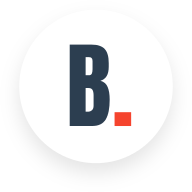
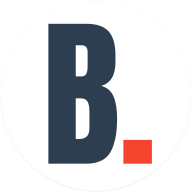
Major Overall from Meeting
- Replace favicons with bigger version
- Replace speaker images with standard sizes
- Create new sections for home page

Changed region(s): [[0.25, 0.0938, 0.8125, 0.875]]

diff --git a/src/js/context/context.js b/src/js/context/context.js
@@ -2,6 +2,40 @@ window.context = {
     ctaText: 'Register',
     orgName: 'BizDay',
     url_cta: 'https://www.eventbrite.com/e/bizdayla-tickets-85448796651',
+    description: {
+        header: 'An exciting event for current and aspiring business owners.',
+        sub_header: 'Join your business peers for a full-day of presentations and discussions focused on the growing your business. Topics such as...',
+        paragraphs: [
+            {
+                label: 'Hiring',
+                text: 'How can leaders grow a company when critical talent is so tough to procure?'
+            },
+            {
+                label: 'Technology',
+                text: 'Should you hire a team of in-house software developers?'
+            },
+            {
+                label: 'Growth strategies',
+                text: 'You already have a successful business. How do you make it bigger?'
+            },
+            {
+                label: 'Exit strategies',
+                text: 'You’re running a large, successful enterprise. How do you extract value so you can move on to your next venture?'
+            },
+            {
+                label: 'Investment strategies',
+                text: 'You just sold a business. What’s next for your career?'
+            },
+            {
+                label: 'Startup strategies',
+                text: 'You have an idea for a great startup. What should you do first?'
+            },
+            {
+                label: 'Marketing',
+                text: 'You have a great product. How do you get the market to buy it?'
+            },
+        ]
+    },
     header: {
     },
     hero: {
@@ -41,51 +75,13 @@ window.context = {
         speakers: [
             {
                 id: 'speaker0',
-                firstName: 'Ray',
-                lastName: 'Hightower',
-                company: 'Bridgetown Partners',
-                website_company: 'https://bridgetownpartners.com/',
-                description: 'Nine out of ten startups fail in the first year. Why? More important, what can we do to improve the odds? For answers, we might explore "The Four Steps to the Epiphany", a classic book of entrepreneurship and the original source of the term minimum viable product (MVP). This presentation will describe actions that leaders can take right now to raise the odds of startup success, including how and why to build an MVP.',
-                shortDescription: 'Ray Hightower founded and ran a technology company for twenty-one years before selling the company in 2016. Today, Hightower is CEO of Bridgetown Partners, builders of software for the commercial real estate industry. Hightower is a perpetual student, currently exploring parallelism and IoT. He studied Computer Science and Engineering at the University of Illinois at Urbana-Champaign, and completed his BS in Computer Science at the University of Illinois at Chicago.',
-                image: 'assets/bizdayla/img/bridgetown_ray_hightower.jpg',
-                name_linkedin: '',
-                name_twitter: '',
-                name_instagram: '',
-                name_facebook: '',
-                url_github: {
-                    has: true,
-                    site: 'https://github.com/bridgetownpartners',
-                },
-                url_facebook: {
-                    has: true,
-                    site: 'https://www.facebook.com/BridgetownPartners',
-                },
-                url_instagram: {
-                    has: true,
-                    site: 'https://www.instagram.com/bridgetownpartners',
-                },
-                url_linkedin: {
-                    has: true,
-                    site: 'https://www.linkedin.com/company/bridgetownpartners',
-                },
-                url_twitter: {
-                    has: true,
-                    site: 'https://www.twitter.com/BridgetownPtrs',
-                },
-                website: {
-                    has: true,
-                    site: 'https://www.RayHightower.com'
-                }
-            },
-            {
-                id: 'speaker1',
                 firstName: 'Varell',
                 lastName: 'Hawkins',
                 company: 'Vazell',
                 company_website: 'https://www.vazell.com',
                 description: 'Varell is an Entreprenuer and Software Engineer with ten (10) years of experience across the telecom, insurance, and ecommerce industries.  He\'s currently running Vazell LLC, a web development agency that provides tailored web experiences allowing businesses better visibility online and/or easing their processess to better service their customers.',
                 shortDescription: 'Vazell LLC | CEO',
-                image: 'assets/bizdayla/img/vazell_varell_hawkins.jpg',
+                image: 'assets/bizdayla/img/cropped_vazell_varell_hawkins.png',
                 name_github: 'participator',
                 name_linkedin: 'vjhawkins',
                 name_twitter: 'vjhawkins1',
@@ -115,13 +111,13 @@ window.context = {
                 }
             },
             {
-                id: 'speaker2',
+                id: 'speaker1',
                 firstName: 'Brandon',
                 lastName: 'Bailey',
                 company: 'TutorD',
                 description: 'With over a decade in the field of Software Engineering Brandon Bailey has has a broad experience in the tech sector.  Initially in the public sector implementing Infrastructure solutions to operational costs and complexity with their 1040 EZ tax processing systems.  With an insatiable desire to grow Brandon decided to bet on himself and head to the midwest to be one of the bleeding edge adopters of a different educational model that was just emerging at the time called Dev Boot Camp, to continue to hone his Software Engineering skills.  Thereafter transitioning into the private sector as a Software Engineer; where he cut his teeth delivering solutions for clients such as Home Depot, Weight Watchers, and Constellation Brands.  Brandon found his passion for apprenticeship and mentorship while partnering with non profits such as Citizens Schools and Spark.  Inline with this passion Brandon moved to Los Angeles Aug 2017 accepting a role as Senior Data Infrastructure Engineer at GoGuardian an EdTech startup in El Segundo; focusing on DevOps along with full stack product development for 2 years.  Per the course Brandon has again bet on himself and a radical approach to development of today and tomorrows workforce by expanding the educational experience beyond the current boundaries.',
                 shortDescription: 'Founder and CEO of TutorD LLC and TutorD Scholars 501(c)(3) non profit',
-                image: 'assets/bizdayla/img/tutord_brandon_bailey.jpg',
+                image: 'assets/bizdayla/img/cropped_tutord_brandon_bailey.png',
                 name_linkedin: '',
                 name_twitter: '',
                 name_instagram: '',
@@ -152,14 +148,14 @@ window.context = {
                 }
             },
             {
-                id: 'speaker3',
+                id: 'speaker2',
                 firstName: 'Ashley',
                 lastName: 'Small',
                 company: 'Medley Inc.',
                 company_website: 'https://medley-inc.com/',
                 description: `There is a unique place where PR, technology and digital media overlap and in that place is where I thrive. My proven PR and digital marketing strategies have helped brands grow their visibility, amplify their voice and expand their reach across the world. \n\n In 2009, when social media was newly on the rise, I set out on a mission to marry traditional PR with the latest trends in technology. Since then, I've launched a boutique PR and digital marketing agency, Medley Inc., and have worked with organizations such as Major League Baseball, AT&T, The City of Houston and The Rose Houston to meet their marketing goals, specifically geared towards African American and Latino consumers. \n\n A Google AdWords certified specialist, I have been nationally recognized by Fast Company Magazine, the Canada Broadcast Network, ABC, FOX and more as an expert in business, technology, social media and public relations. I am an alumnus of the Goldman Sachs 10,000 Small Businesses program and Leadership Houston as well as one of Houston Business Journal’s 2018 40 under 40 leading professionals and the 2019 HYPE Impact Business Leader award winner. \n\n I serve on the board of Women Empowering Nations, the Houston City Breakfast Club and the Memorial Park Conservancy. Through my work in the community, I have educated and trained more than 400 hundred girls and budding entrepreneurs in the areas of technology, social media and leadership development. I’m always eager to connect with others!`,
                 shortDescription: 'Founder and CEO of TutorD LLC and TutorD Scholars 501(c)(3) non profit',
-                image: 'assets/bizdayla/img/medley_ashley_small.jpg',
+                image: 'assets/bizdayla/img/cropped_medley_ashley_small.png',
                 name_linkedin: '',
                 name_twitter: '',
                 name_instagram: '',
@@ -190,7 +186,7 @@ window.context = {
                 }
             },
             {
-                id: 'speaker4',
+                id: 'speaker3',
                 firstName: 'Joseph',
                 lastName: 'Luckett',
                 company: 'Affluent Solution',
@@ -199,7 +195,7 @@ window.context = {
 
                 With Reputation Management, you can keep on top of online activity affecting the reputation of a business, including reviews, listings, and social media, helping you make expert recommendations, and provide proof-of-performance.`,
                 shortDescription: 'Founder and CEO of TutorD LLC and TutorD Scholars 501(c)(3) non profit',
-                image: 'assets/bizdayla/img/as_joseph_luckett.jpg',
+                image: 'assets/bizdayla/img/cropped_as_joseph_luckett.png',
                 name_linkedin: '',
                 name_twitter: '',
                 name_instagram: '',
@@ -232,42 +228,81 @@ window.context = {
                     has: false,
                     site: 'http://'
                 }
-            }
+            },
+            {
+                id: 'speaker4',
+                firstName: 'Ray',
+                lastName: 'Hightower',
+                company: 'Bridgetown Partners',
+                website_company: 'https://bridgetownpartners.com/',
+                description: 'Nine out of ten startups fail in the first year. Why? More important, what can we do to improve the odds? For answers, we might explore "The Four Steps to the Epiphany", a classic book of entrepreneurship and the original source of the term minimum viable product (MVP). This presentation will describe actions that leaders can take right now to raise the odds of startup success, including how and why to build an MVP.',
+                shortDescription: 'Ray Hightower founded and ran a technology company for twenty-one years before selling the company in 2016. Today, Hightower is CEO of Bridgetown Partners, builders of software for the commercial real estate industry. Hightower is a perpetual student, currently exploring parallelism and IoT. He studied Computer Science and Engineering at the University of Illinois at Urbana-Champaign, and completed his BS in Computer Science at the University of Illinois at Chicago.',
+                image: 'assets/bizdayla/img/cropped_bridgetown_ray_hightower.png',
+                name_linkedin: '',
+                name_twitter: '',
+                name_instagram: '',
+                name_facebook: '',
+                url_github: {
+                    has: true,
+                    site: 'https://github.com/bridgetownpartners',
+                },
+                url_facebook: {
+                    has: true,
+                    site: 'https://www.facebook.com/BridgetownPartners',
+                },
+                url_instagram: {
+                    has: true,
+                    site: 'https://www.instagram.com/bridgetownpartners',
+                },
+                url_linkedin: {
+                    has: true,
+                    site: 'https://www.linkedin.com/company/bridgetownpartners',
+                },
+                url_twitter: {
+                    has: true,
+                    site: 'https://www.twitter.com/BridgetownPtrs',
+                },
+                website: {
+                    has: true,
+                    site: 'https://www.RayHightower.com'
+                }
+            },
         ]
     },
-    sponsors: {
-        header: "Immerse yourself in one evening of creative discussion.",
-        description: [
-            "An exciting event for current and aspiring business owners."
-        ],
-        sponsor: [
-            {
-                image: 'assets/bizdayla/img/as_logo.png',
-                name: 'Affluent Solution',
-                url: 'https://www.affluentsolution.com/'
-            },
-            {
-                image: 'assets/bizdayla/img/medley_logo.jpg',
-                name: 'Medley',
-                url: 'https://www.medley-inc.com'
-            },
-            {
-                image: 'assets/bizdayla/img/vazell_logo.svg',
-                name: 'vazell',
-                url: 'http://www.vazell.com'
-            },
-            {
-                image: 'assets/bizdayla/img/the_metaphor_club_logo.jpg',
-                name: 'The Metaphor Club',
-                url: 'http://themetaphorclub.com'
-            },
-            {
-                image: 'assets/bizdayla/img/bridgetown_partners_logo.png',
-                name: 'Bridgetown Partners',
-                url: 'https://bridgetownpartners.com/'
-            }
-        ]
-    },
+    sponsors: [
+        {
+            image: 'assets/bizdayla/img/as_logo.png',
+            name: 'Affluent Solution',
+            url: 'https://www.affluentsolution.com/'
+        },
+        {
+            image: 'assets/bizdayla/img/medley_logo.jpg',
+            name: 'Medley',
+            url: 'https://www.medley-inc.com'
+        },
+        {
+            image: 'assets/bizdayla/img/vazell_logo.svg',
+            name: 'Vazell',
+            url: 'http://www.vazell.com'
+        },
+        {
+            image: 'assets/bizdayla/img/bridgetown_partners_logo.png',
+            name: 'Bridgetown Partners',
+            url: 'https://bridgetownpartners.com/'
+        }
+    ],
+    sponsors_venue: [
+        {
+            image: 'assets/bizdayla/img/hot_and_cool_cafe_logo.png',
+            name: 'Hot & Cool Cafe',
+            url: 'https://hotandcoolcafe.com/'
+        },
+        {
+            image: 'assets/bizdayla/img/the_metaphor_club_logo.jpg',
+            name: 'The Metaphor Club',
+            url: 'http://www.themetaphorclub.com'
+        }        
+    ],
     footer: {
         email: 'organizers@bizday.la',
         tagline: 'Connect with local business owners',

diff --git a/src/css/style.css b/src/css/style.css
@@ -1,23 +1,13 @@
 :root {
     --dark: #212529;
     --hero_blue: #202055;
+    --gray: dee2e6;
     --nav_blue: #020122;
     --white: #ffffff;
 }
-.header_text {
-    color: white;
-    font-size: 2em;
-    margin: 0;
-}
-.bizDay_text {
-    font-family: 'Anton', sans-serif;
-}
-.bizDay_text_resetLetterSpacing {
-    letter-spacing: normal;
-}
 .bizday_header_nav .navbar-brand {
     color: var(--nav_blue);
-    width: 5em;
+    width: 5rem;
 }
 .bizday_header_nav .navbar-brand.bizday_header_logo--transparent {
     visibility: hidden;
@@ -50,6 +40,23 @@
 .bizday_hero {
     background-color: var(--hero_blue)!important;
 }
+.bizday_hero_date {
+    font-size: 1rem;
+    margin-bottom: 1.5rem;
+    margin-top: 1.5rem;
+}
+.bizday_hero_logo {
+    width: 4em;
+}
+.bizday_sponsors_by_text {
+    font-weight: bold;
+}
+.bizday_sponsors_icon {
+    height: 4rem;
+}
+.bizday_sponsors_venue_icon {
+    height: 8rem;
+}
 .bizday_speaker_main {
     background-color: var(--white);
 }
@@ -58,4 +65,9 @@
 }
 .bizday_speaker_description {
     font-size: 1.125rem;    
+}
+.hr_style {
+    background-color: var(--gray);
+    height: 2px;
+    margin: 1px;
 }
